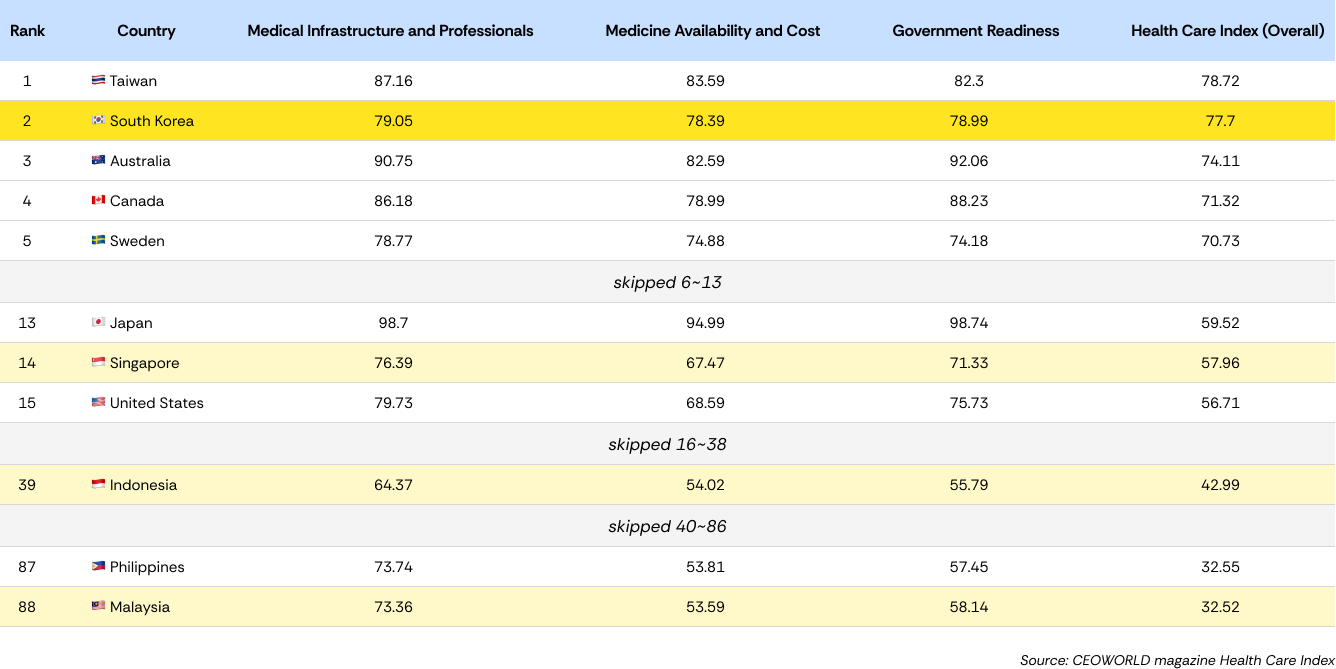
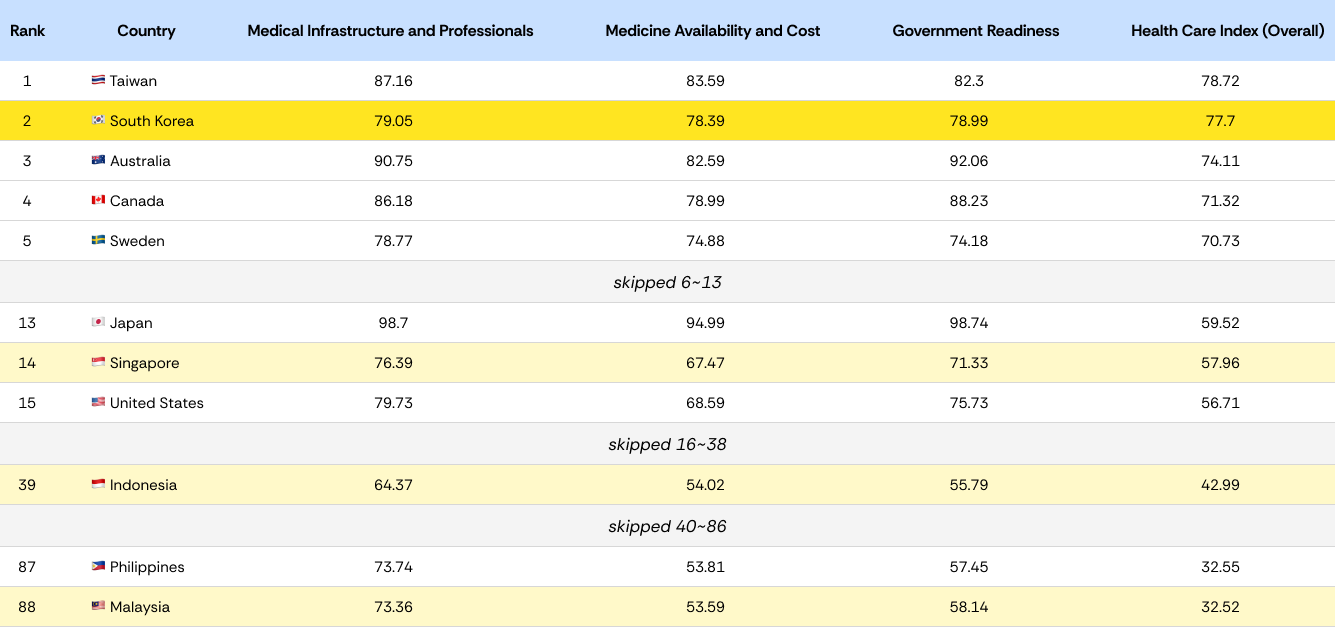
+

diff --git a/web-src/pages/about/index.vue b/web-src/pages/about/index.vue
@@ -276,6 +276,9 @@
                                 <img src="@/assets/images/sub/about/ranking_table.png" alt=""
                                     class="w-full h-full object-cover">
                             </div>
+                            <p class="text-right text-[14px] mb-[250px]">
+                                <i>{{ t('about.part3.content1.source') }}</i>
+                            </p>
                         </div>
                     </div>
 
@@ -302,7 +305,7 @@
                             </div>
                         </div>
                         <p class="text-right text-[14px] mb-[250px]">
-                            <i>Source: OECD Health Statistics 2024; WHO Global atlas of medical devices 2022.</i>
+                            <i>{{ t('about.part3.content2.source') }}</i>
                         </p>
                     </div>
 
@@ -324,7 +327,7 @@
                             </div>
                         </div>
                         <p class="text-right text-[14px] mb-[100px]">
-                            <i>Source: Ministry of Health and Welfare, Republic of Korea</i>
+                            <i>{{ t('about.part3.content3.source') }}</i>
                         </p>
                     </div>
 
